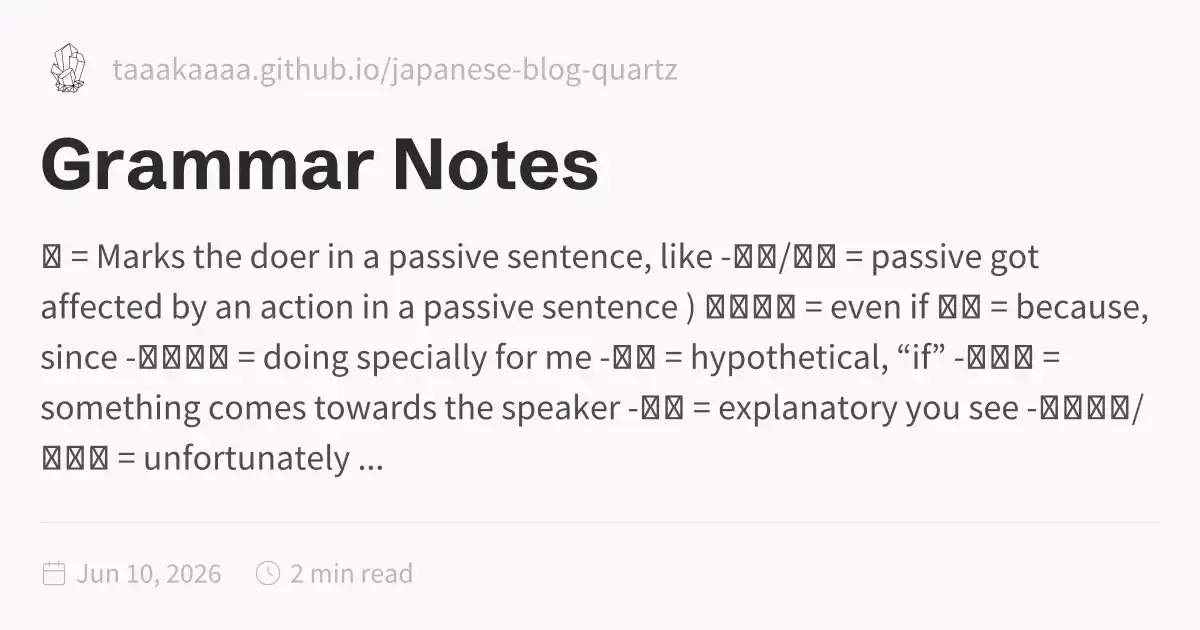
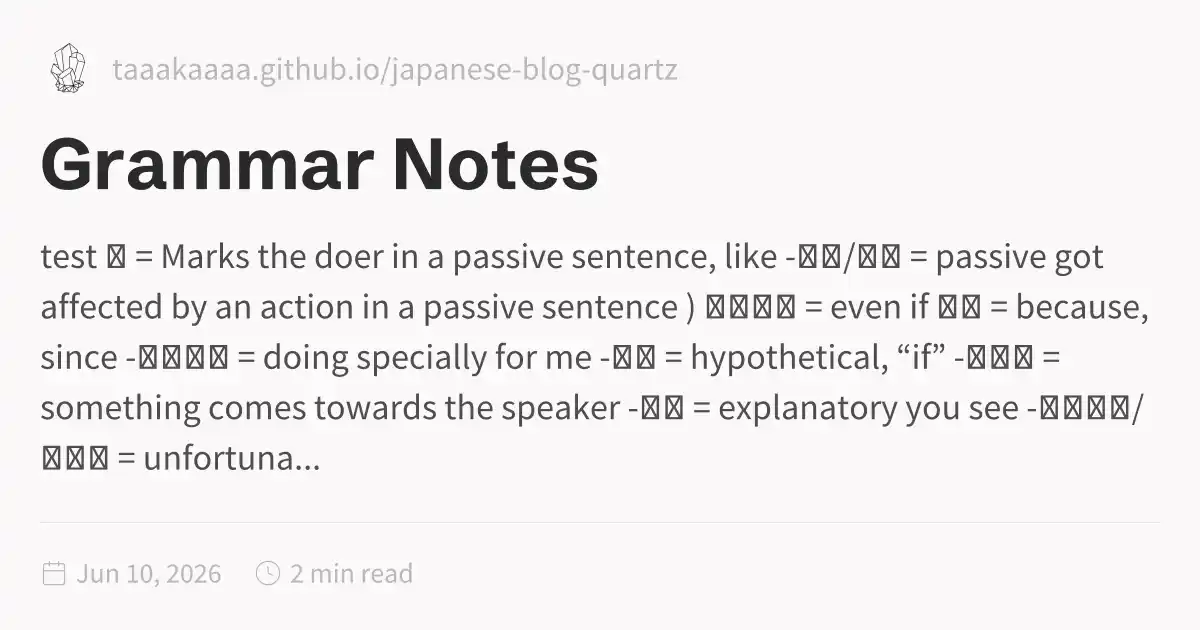
Deploy static Quartz site

Changed region(s): [[0.0308, 0.3619, 0.925, 0.4524], [0.2467, 0.6937, 0.3083, 0.754]]

diff --git a/grammar-notes.html b/grammar-notes.html
@@ -1,5 +1,6 @@
 <!DOCTYPE html>
-<html lang="en" dir="ltr"><head><title>Grammar Notes</title><meta charset="utf-8"/><link rel="preload" href="./index-47d9ba67.css" as="style"/><link rel="preload" href="./prescript-2bfc6315.js" as="script"/><link rel="preconnect" href="https://fonts.googleapis.com"/><link rel="preconnect" href="https://fonts.gstatic.com"/><link rel="stylesheet" href="https://fonts.googleapis.com/css2?family=Schibsted Grotesk:wght@400;700&amp;family=Source Sans Pro:ital,wght@0,400;0,600;1,400;1,600&amp;family=IBM Plex Mono:wght@400;600&amp;display=swap"/><link rel="preconnect" href="https://cdnjs.cloudflare.com" crossorigin="anonymous"/><meta name="viewport" content="width=device-width, initial-scale=1.0"/><meta name="og:site_name" content="Japanese Blog"/><meta property="og:title" content="Grammar Notes"/><meta property="og:type" content="website"/><meta name="twitter:card" content="summary_large_image"/><meta name="twitter:title" content="Grammar Notes"/><meta name="twitter:description" content="に = Marks the doer in a passive sentence, like -れた/れる = passive got affected by an action in a passive sentence ) としても = even if ので = because, since -てくれる = doing specially for me -たら = hypothetical, “if” -てくる = something comes towards the speaker -んだ = explanatory you see -てしまう/ちゃう = unfortunately ..."/><meta property="og:description" content="に = Marks the doer in a passive sentence, like -れた/れる = passive got affected by an action in a passive sentence ) としても = even if ので = because, since -てくれる = doing specially for me -たら = hypothetical, “if” -てくる = something comes towards the speaker -んだ = explanatory you see -てしまう/ちゃう = unfortunately ..."/><meta property="og:image:alt" content="に = Marks the doer in a passive sentence, like -れた/れる = passive got affected by an action in a passive sentence ) としても = even if ので = because, since -てくれる = doing specially for me -たら = hypothetical, “if” -てくる = something comes towards the speaker -んだ = explanatory you see -てしまう/ちゃう = unfortunately ..."/><meta property="twitter:domain" content="taaakaaaa.github.io/japanese-blog-quartz"/><meta property="og:url" content="https://taaakaaaa.github.io/japanese-blog-quartz/grammar-notes"/><meta property="twitter:url" content="https://taaakaaaa.github.io/japanese-blog-quartz/grammar-notes"/><link rel="icon" href="./static/icon.png"/><meta name="description" content="に = Marks the doer in a passive sentence, like -れた/れる = passive got affected by an action in a passive sentence ) としても = even if ので = because, since -てくれる = doing specially for me -たら = hypothetical, “if” -てくる = something comes towards the speaker -んだ = explanatory you see -てしまう/ちゃう = unfortunately ..."/><meta name="generator" content="Quartz"/><link href="./index-47d9ba67.css" rel="stylesheet" type="text/css" data-persist="true"/><link href="./component-735924e0.css" rel="stylesheet" type="text/css" data-persist="true"/><link href="./component-589c1cea.css" rel="stylesheet" type="text/css" data-persist="true"/><link href="./component-bbc3f7c0.css" rel="stylesheet" type="text/css" data-persist="true"/><link href="./component-2911f5d1.css" rel="stylesheet" type="text/css" data-persist="true"/><link href="./component-e427079e.css" rel="stylesheet" type="text/css" data-persist="true"/><link href="./component-53b25b2b.css" rel="stylesheet" type="text/css" data-persist="true"/><link href="./component-c93c6a44.css" rel="stylesheet" type="text/css" data-persist="true"/><link href="./component-8a06014f.css" rel="stylesheet" type="text/css" data-persist="true"/><link href="./component-77d6a441.css" rel="stylesheet" type="text/css" data-persist="true"/><link href="./component-6ee21cee.css" rel="stylesheet" type="text/css" data-persist="true"/><link href="./component-1ea6ad18.css" rel="stylesheet" type="text/css" data-persist="true"/><link href="./component-34bdfded.css" rel="stylesheet" type="text/css" data-persist="true"/><link href="./component-788c9ca3.css" rel="stylesheet" type="text/css" data-persist="true"/><link href="./component-642859cd.css" rel="stylesheet" type="text/css" data-persist="true"/><link href="./component-4abc06bd.css" rel="stylesheet" type="text/css" data-persist="true"/><link href="./component-274a3dfe.css" rel="stylesheet" type="text/css" data-persist="true"/><link href="./component-94cb6c84.css" rel="stylesheet" type="text/css" data-persist="true"/><link href="./component-58d5ff56.css" rel="stylesheet" type="text/css" data-persist="true"/><link href="./component-9f9b2774.css" rel="stylesheet" type="text/css" data-persist="true"/><link href="./component-7262b5a7.css" rel="stylesheet" type="text/css" data-persist="true"/><link href="./static/resource-style-54175ada.css" rel="stylesheet" type="text/css" data-persist="true"/><link href="./static/resource-style-a5c806d2.css" rel="stylesheet" type="text/css" data-persist="true"/><link href="./static/resource-style-6bd36952.css" rel="stylesheet" type="text/css" data-persist="true"/><link href="./static/resource-style-9857b007.css" rel="stylesheet" type="text/css" data-persist="true"/><link href="./static/resource-style-d3a1a224.css" rel="stylesheet" type="text/css" data-persist="true"/><link href="https://cdn.jsdelivr.net/npm/katex@0.16.11/dist/katex.min.css" rel="stylesheet" type="text/css" data-persist="true"/><script src="./prescript-2bfc6315.js" type="application/javascript" data-persist="true"></script><script type="application/javascript" data-persist="true">const fetchData = fetch("./static/contentIndex.json").then(data => data.json())</script><link rel="preconnect" href="https://fonts.googleapis.com"/><link rel="preconnect" href="https://fonts.gstatic.com" crossorigin="anonymous"/><link rel="stylesheet" href="https://fonts.googleapis.com/css2?family=Schibsted%20Grotesk%3Awght%40400%3B700&amp;family=Source%20Sans%20Pro%3Aital%2Cwght%400%2C400%3B0%2C600%3B1%2C400%3B1%2C600&amp;family=IBM%20Plex%20Mono%3Awght%40400%3B600&amp;display=swap"/><meta property="og:image:width" content="1200"/><meta property="og:image:height" content="630"/><meta property="og:image" content="https://taaakaaaa.github.io/japanese-blog-quartz/grammar-notes-og-image.webp"/><meta property="og:image:url" content="https://taaakaaaa.github.io/japanese-blog-quartz/grammar-notes-og-image.webp"/><meta name="twitter:image" content="https://taaakaaaa.github.io/japanese-blog-quartz/grammar-notes-og-image.webp"/><meta property="og:image:type" content="image/webp"/></head><body data-slug="grammar-notes" data-basepath="/japanese-blog-quartz"><div id="quartz-root" class="page" data-frame="default"><div id="quartz-body"><div class="left sidebar"><h2 class="page-title"><a href=".">Japanese Blog</a></h2><div class="mobile-only"><div class="spacer"></div></div><div class="flex-component" style="flex-direction: row; flex-wrap: nowrap; gap: 0.5rem;"><div style="flex-grow: 1; flex-shrink: 1; flex-basis: auto; order: 0; align-self: center; justify-self: center;"><div class="search"><button class="search-button" aria-label="Search" aria-expanded="false"><svg role="img" xmlns="http://www.w3.org/2000/svg" viewBox="0 0 19.9 19.7"><title>Search</title><g class="search-path" fill="none"><path stroke-linecap="square" d="M18.5 18.3l-5.4-5.4"></path><circle cx="8" cy="8" r="7"></circle></g></svg><p>Search</p></button><div class="search-container"><div class="search-space"><input autocomplete="off" class="search-bar" name="search" type="text" aria-label="Search for something..." placeholder="Search for something..."/><div class="search-layout" data-preview="true" data-field-priority="[&quot;title&quot;,&quot;content&quot;,&quot;tags&quot;]"></div></div></div></div></div><div style="flex-grow: 0; flex-shrink: 1; flex-basis: auto; order: 0; align-self: center; justify-self: center;"><button class="darkmode" aria-label="Dark mode"><svg xmlns="http://www.w3.org/2000/svg" xmlns:xlink="http://www.w3.org/1999/xlink" version="1.1" class="dayIcon" x="0px" y="0px" viewBox="0 0 35 35" style="enable-background:new 0 0 35 35" xml:space="preserve" aria-label="Dark mode"><title>Dark mode</title><path d="M6,17.5C6,16.672,5.328,16,4.5,16h-3C0.672,16,0,16.672,0,17.5    S0.672,19,1.5,19h3C5.328,19,6,18.328,6,17.5z M7.5,26c-0.414,0-0.789,0.168-1.061,0.439l-2,2C4.168,28.711,4,29.086,4,29.5    C4,30.328,4.671,31,5.5,31c0.414,0,0.789-0.168,1.06-0.44l2-2C8.832,28.289,9,27.914,9,27.5C9,26.672,8.329,26,7.5,26z M17.5,6    C18.329,6,19,5.328,19,4.5v-3C19,0.672,18.329,0,17.5,0S16,0.672,16,1.5v3C16,5.328,16.671,6,17.5,6z M27.5,9    c0.414,0,0.789-0.168,1.06-0.439l2-2C30.832,6.289,31,5.914,31,5.5C31,4.672,30.329,4,29.5,4c-0.414,0-0.789,0.168-1.061,0.44    l-2,2C26.168,6.711,26,7.086,26,7.5C26,8.328,26.671,9,27.5,9z M6.439,8.561C6.711,8.832,7.086,9,7.5,9C8.328,9,9,8.328,9,7.5    c0-0.414-0.168-0.789-0.439-1.061l-2-2C6.289,4.168,5.914,4,5.5,4C4.672,4,4,4.672,4,5.5c0,0.414,0.168,0.789,0.439,1.06    L6.439,8.561z M33.5,16h-3c-0.828,0-1.5,0.672-1.5,1.5s0.672,1.5,1.5,1.5h3c0.828,0,1.5-0.672,1.5-1.5S34.328,16,33.5,16z     M28.561,26.439C28.289,26.168,27.914,26,27.5,26c-0.828,0-1.5,0.672-1.5,1.5c0,0.414,0.168,0.789,0.439,1.06l2,2    C28.711,30.832,29.086,31,29.5,31c0.828,0,1.5-0.672,1.5-1.5c0-0.414-0.168-0.789-0.439-1.061L28.561,26.439z M17.5,29    c-0.829,0-1.5,0.672-1.5,1.5v3c0,0.828,0.671,1.5,1.5,1.5s1.5-0.672,1.5-1.5v-3C19,29.672,18.329,29,17.5,29z M17.5,7    C11.71,7,7,11.71,7,17.5S11.71,28,17.5,28S28,23.29,28,17.5S23.29,7,17.5,7z M17.5,25c-4.136,0-7.5-3.364-7.5-7.5    c0-4.136,3.364-7.5,7.5-7.5c4.136,0,7.5,3.364,7.5,7.5C25,21.636,21.636,25,17.5,25z"></path></svg><svg xmlns="http://www.w3.org/2000/svg" xmlns:xlink="http://www.w3.org/1999/xlink" version="1.1" class="nightIcon" x="0px" y="0px" viewBox="0 0 100 100" style="enable-background:new 0 0 100 100" xml:space="preserve" aria-label="Light mode"><title>Light mode</title><path d="M96.76,66.458c-0.853-0.852-2.15-1.064-3.23-0.534c-6.063,2.991-12.858,4.571-19.655,4.571  C62.022,70.495,50.88,65.88,42.5,57.5C29.043,44.043,25.658,23.536,34.076,6.47c0.532-1.08,0.318-2.379-0.534-3.23  c-0.851-0.852-2.15-1.064-3.23-0.534c-4.918,2.427-9.375,5.619-13.246,9.491c-9.447,9.447-14.65,22.008-14.65,35.369  c0,13.36,5.203,25.921,14.65,35.368s22.008,14.65,35.368,14.65c13.361,0,25.921-5.203,35.369-14.65  c3.872-3.871,7.064-8.328,9.491-13.246C97.826,68.608,97.611,67.309,96.76,66.458z"></path></svg></button></div><div style="flex-grow: 0; flex-shrink: 1; flex-basis: auto; order: 0; align-self: center; justify-self: center;"><button class="readermode" aria-label="Reader mode"><svg xmlns="http://www.w3.org/2000/svg" xmlns:xlink="http://www.w3.org/1999/xlink" version="1.1" class="readerIcon" fill="currentColor" stroke="currentColor" stroke-width="0.2" stroke-linecap="round" stroke-linejoin="round" width="64px" height="64px" viewBox="0 0 24 24" aria-label="Reader mode"><title>Reader mode</title><g transform="translate(-1.8, -1.8) scale(1.15, 1.2)"><path d="M8.9891247,2.5 C10.1384702,2.5 11.2209868,2.96705384 12.0049645,3.76669482 C12.7883914,2.96705384 13.8709081,2.5 15.0202536,2.5 L18.7549359,2.5 C19.1691495,2.5 19.5049359,2.83578644 19.5049359,3.25 L19.5046891,4.004 L21.2546891,4.00457396 C21.6343849,4.00457396 21.9481801,4.28672784 21.9978425,4.6528034 L22.0046891,4.75457396 L22.0046891,20.25 C22.0046891,20.6296958 21.7225353,20.943491 21.3564597,20.9931534 L21.2546891,21 L2.75468914,21 C2.37499337,21 2.06119817,20.7178461 2.01153575,20.3517706 L2.00468914,20.25 L2.00468914,4.75457396 C2.00468914,4.37487819 2.28684302,4.061083 2.65291858,4.01142057 L2.75468914,4.00457396 L4.50368914,4.004 L4.50444233,3.25 C4.50444233,2.87030423 4.78659621,2.55650904 5.15267177,2.50684662 L5.25444233,2.5 L8.9891247,2.5 Z M4.50368914,5.504 L3.50468914,5.504 L3.50468914,19.5 L10.9478955,19.4998273 C10.4513189,18.9207296 9.73864328,18.5588115 8.96709342,18.5065584 L8.77307039,18.5 L5.25444233,18.5 C4.87474657,18.5 4.56095137,18.2178461 4.51128895,17.8517706 L4.50444233,17.75 L4.50368914,5.504 Z M19.5049359,17.75 C19.5049359,18.1642136 19.1691495,18.5 18.7549359,18.5 L15.2363079,18.5 C14.3910149,18.5 13.5994408,18.8724714 13.0614828,19.4998273 L20.5046891,19.5 L20.5046891,5.504 L19.5046891,5.504 L19.5049359,17.75 Z M18.0059359,3.999 L15.0202536,4 L14.8259077,4.00692283 C13.9889509,4.06666544 13.2254227,4.50975805 12.7549359,5.212 L12.7549359,17.777 L12.7782651,17.7601316 C13.4923805,17.2719483 14.3447024,17 15.2363079,17 L18.0059359,16.999 L18.0056891,4.798 L18.0033792,4.75457396 L18.0056891,4.71 L18.0059359,3.999 Z M8.9891247,4 L6.00368914,3.999 L6.00599909,4.75457396 L6.00599909,4.75457396 L6.00368914,4.783 L6.00368914,16.999 L8.77307039,17 C9.57551536,17 10.3461406,17.2202781 11.0128313,17.6202194 L11.2536891,17.776 L11.2536891,5.211 C10.8200889,4.56369974 10.1361548,4.13636104 9.37521067,4.02745763 L9.18347055,4.00692283 L8.9891247,4 Z"></path></g></svg></button></div></div><div class="explorer nav-files-container" data-behavior="link" data-collapsed="collapsed" data-savestate="true" data-data-fns="{&quot;order&quot;:[&quot;filter&quot;,&quot;map&quot;,&quot;sort&quot;],&quot;sortFn&quot;:&quot;(a2, b2) => {\r\n    if (!a2.isFolder &amp;&amp; !b2.isFolder || a2.isFolder &amp;&amp; b2.isFolder) {\r\n      return (a2.displayName || \&quot;\&quot;).localeCompare(b2.displayName || \&quot;\&quot;, void 0, {\r\n        numeric: true,\r\n        sensitivity: \&quot;base\&quot;\r\n      });\r\n    }\r\n    if (!a2.isFolder &amp;&amp; b2.isFolder) {\r\n      return 1;\r\n    }\r\n    return -1;\r\n  }&quot;,&quot;filterFn&quot;:&quot;(node) => node.slugSegment !== \&quot;tags\&quot;&quot;,&quot;mapFn&quot;:&quot;(node) => {\r\n    return node;\r\n  }&quot;}"><button type="button" class="explorer-toggle mobile-explorer hide-until-loaded" data-mobile="true" aria-controls="explorer-0" aria-label="Explorer"><svg xmlns="http://www.w3.org/2000/svg" width="24" height="24" viewBox="0 0 24 24" stroke-width="2" stroke-linecap="round" stroke-linejoin="round" class="lucide-menu"><line x1="4" x2="20" y1="12" y2="12"></line><line x1="4" x2="20" y1="6" y2="6"></line><line x1="4" x2="20" y1="18" y2="18"></line></svg></button><button type="button" class="title-button explorer-toggle desktop-explorer" data-mobile="false" aria-expanded="true"><h2>Explorer</h2><svg xmlns="http://www.w3.org/2000/svg" width="14" height="14" viewBox="5 8 14 8" fill="none" stroke="currentColor" stroke-width="2" stroke-linecap="round" stroke-linejoin="round" class="fold"><polyline points="6 9 12 15 18 9"></polyline></svg></button><div id="explorer-0" class="explorer-content" aria-expanded="false" role="group"><ul class="explorer-ul overflow" id="list-0"><li class="overflow-end"></li></ul></div><template id="template-file"><li><a href="#" class="nav-file-title tree-item-self"></a></li></template><template id="template-folder"><li><div class="folder-container nav-folder-title tree-item-self"><svg xmlns="http://www.w3.org/2000/svg" width="12" height="12" viewBox="5 8 14 8" fill="none" stroke="currentColor" stroke-width="2" stroke-linecap="round" stroke-linejoin="round" class="folder-icon nav-folder-collapse-indicator collapse-icon"><polyline points="6 9 12 15 18 9"></polyline></svg><div><button class="folder-button"><span class="folder-title"></span></button></div></div><div class="folder-outer"><ul class="content tree-item-children"></ul></div></li></template></div></div><div class="center"><div class="page-header"><div class="popover-hint"><nav class="breadcrumb-container" aria-label="breadcrumbs"><div class="breadcrumb-element"><a href="./">Home</a><p> ❯ </p></div><div class="breadcrumb-element"><a href>Grammar Notes</a></div></nav><h1 class="article-title">Grammar Notes</h1><p show-comma="true" class="content-meta"><time datetime="2026-06-10T22:49:53.000Z">Jun 10, 2026</time><span>2 min read</span></p></div></div><article class="popover-hint"><div class="markdown-preview-view markdown-rendered"><p>に = Marks the doer in a passive sentence, like</p>
+<html lang="en" dir="ltr"><head><title>Grammar Notes</title><meta charset="utf-8"/><link rel="preload" href="./index-47d9ba67.css" as="style"/><link rel="preload" href="./prescript-2bfc6315.js" as="script"/><link rel="preconnect" href="https://fonts.googleapis.com"/><link rel="preconnect" href="https://fonts.gstatic.com"/><link rel="stylesheet" href="https://fonts.googleapis.com/css2?family=Schibsted Grotesk:wght@400;700&amp;family=Source Sans Pro:ital,wght@0,400;0,600;1,400;1,600&amp;family=IBM Plex Mono:wght@400;600&amp;display=swap"/><link rel="preconnect" href="https://cdnjs.cloudflare.com" crossorigin="anonymous"/><meta name="viewport" content="width=device-width, initial-scale=1.0"/><meta name="og:site_name" content="Japanese Blog"/><meta property="og:title" content="Grammar Notes"/><meta property="og:type" content="website"/><meta name="twitter:card" content="summary_large_image"/><meta name="twitter:title" content="Grammar Notes"/><meta name="twitter:description" content="test に = Marks the doer in a passive sentence, like -れた/れる = passive got affected by an action in a passive sentence ) としても = even if ので = because, since -てくれる = doing specially for me -たら = hypothetical, “if” -てくる = something comes towards the speaker -んだ = explanatory you see -てしまう/ちゃう = unfortuna..."/><meta property="og:description" content="test に = Marks the doer in a passive sentence, like -れた/れる = passive got affected by an action in a passive sentence ) としても = even if ので = because, since -てくれる = doing specially for me -たら = hypothetical, “if” -てくる = something comes towards the speaker -んだ = explanatory you see -てしまう/ちゃう = unfortuna..."/><meta property="og:image:alt" content="test に = Marks the doer in a passive sentence, like -れた/れる = passive got affected by an action in a passive sentence ) としても = even if ので = because, since -てくれる = doing specially for me -たら = hypothetical, “if” -てくる = something comes towards the speaker -んだ = explanatory you see -てしまう/ちゃう = unfortuna..."/><meta property="twitter:domain" content="taaakaaaa.github.io/japanese-blog-quartz"/><meta property="og:url" content="https://taaakaaaa.github.io/japanese-blog-quartz/grammar-notes"/><meta property="twitter:url" content="https://taaakaaaa.github.io/japanese-blog-quartz/grammar-notes"/><link rel="icon" href="./static/icon.png"/><meta name="description" content="test に = Marks the doer in a passive sentence, like -れた/れる = passive got affected by an action in a passive sentence ) としても = even if ので = because, since -てくれる = doing specially for me -たら = hypothetical, “if” -てくる = something comes towards the speaker -んだ = explanatory you see -てしまう/ちゃう = unfortuna..."/><meta name="generator" content="Quartz"/><link href="./index-47d9ba67.css" rel="stylesheet" type="text/css" data-persist="true"/><link href="./component-735924e0.css" rel="stylesheet" type="text/css" data-persist="true"/><link href="./component-589c1cea.css" rel="stylesheet" type="text/css" data-persist="true"/><link href="./component-bbc3f7c0.css" rel="stylesheet" type="text/css" data-persist="true"/><link href="./component-2911f5d1.css" rel="stylesheet" type="text/css" data-persist="true"/><link href="./component-e427079e.css" rel="stylesheet" type="text/css" data-persist="true"/><link href="./component-53b25b2b.css" rel="stylesheet" type="text/css" data-persist="true"/><link href="./component-c93c6a44.css" rel="stylesheet" type="text/css" data-persist="true"/><link href="./component-8a06014f.css" rel="stylesheet" type="text/css" data-persist="true"/><link href="./component-77d6a441.css" rel="stylesheet" type="text/css" data-persist="true"/><link href="./component-6ee21cee.css" rel="stylesheet" type="text/css" data-persist="true"/><link href="./component-1ea6ad18.css" rel="stylesheet" type="text/css" data-persist="true"/><link href="./component-34bdfded.css" rel="stylesheet" type="text/css" data-persist="true"/><link href="./component-788c9ca3.css" rel="stylesheet" type="text/css" data-persist="true"/><link href="./component-642859cd.css" rel="stylesheet" type="text/css" data-persist="true"/><link href="./component-4abc06bd.css" rel="stylesheet" type="text/css" data-persist="true"/><link href="./component-274a3dfe.css" rel="stylesheet" type="text/css" data-persist="true"/><link href="./component-94cb6c84.css" rel="stylesheet" type="text/css" data-persist="true"/><link href="./component-58d5ff56.css" rel="stylesheet" type="text/css" data-persist="true"/><link href="./component-9f9b2774.css" rel="stylesheet" type="text/css" data-persist="true"/><link href="./component-7262b5a7.css" rel="stylesheet" type="text/css" data-persist="true"/><link href="./static/resource-style-54175ada.css" rel="stylesheet" type="text/css" data-persist="true"/><link href="./static/resource-style-a5c806d2.css" rel="stylesheet" type="text/css" data-persist="true"/><link href="./static/resource-style-6bd36952.css" rel="stylesheet" type="text/css" data-persist="true"/><link href="./static/resource-style-9857b007.css" rel="stylesheet" type="text/css" data-persist="true"/><link href="./static/resource-style-d3a1a224.css" rel="stylesheet" type="text/css" data-persist="true"/><link href="https://cdn.jsdelivr.net/npm/katex@0.16.11/dist/katex.min.css" rel="stylesheet" type="text/css" data-persist="true"/><script src="./prescript-2bfc6315.js" type="application/javascript" data-persist="true"></script><script type="application/javascript" data-persist="true">const fetchData = fetch("./static/contentIndex.json").then(data => data.json())</script><link rel="preconnect" href="https://fonts.googleapis.com"/><link rel="preconnect" href="https://fonts.gstatic.com" crossorigin="anonymous"/><link rel="stylesheet" href="https://fonts.googleapis.com/css2?family=Schibsted%20Grotesk%3Awght%40400%3B700&amp;family=Source%20Sans%20Pro%3Aital%2Cwght%400%2C400%3B0%2C600%3B1%2C400%3B1%2C600&amp;family=IBM%20Plex%20Mono%3Awght%40400%3B600&amp;display=swap"/><meta property="og:image:width" content="1200"/><meta property="og:image:height" content="630"/><meta property="og:image" content="https://taaakaaaa.github.io/japanese-blog-quartz/grammar-notes-og-image.webp"/><meta property="og:image:url" content="https://taaakaaaa.github.io/japanese-blog-quartz/grammar-notes-og-image.webp"/><meta name="twitter:image" content="https://taaakaaaa.github.io/japanese-blog-quartz/grammar-notes-og-image.webp"/><meta property="og:image:type" content="image/webp"/></head><body data-slug="grammar-notes" data-basepath="/japanese-blog-quartz"><div id="quartz-root" class="page" data-frame="default"><div id="quartz-body"><div class="left sidebar"><h2 class="page-title"><a href=".">Japanese Blog</a></h2><div class="mobile-only"><div class="spacer"></div></div><div class="flex-component" style="flex-direction: row; flex-wrap: nowrap; gap: 0.5rem;"><div style="flex-grow: 1; flex-shrink: 1; flex-basis: auto; order: 0; align-self: center; justify-self: center;"><div class="search"><button class="search-button" aria-label="Search" aria-expanded="false"><svg role="img" xmlns="http://www.w3.org/2000/svg" viewBox="0 0 19.9 19.7"><title>Search</title><g class="search-path" fill="none"><path stroke-linecap="square" d="M18.5 18.3l-5.4-5.4"></path><circle cx="8" cy="8" r="7"></circle></g></svg><p>Search</p></button><div class="search-container"><div class="search-space"><input autocomplete="off" class="search-bar" name="search" type="text" aria-label="Search for something..." placeholder="Search for something..."/><div class="search-layout" data-preview="true" data-field-priority="[&quot;title&quot;,&quot;content&quot;,&quot;tags&quot;]"></div></div></div></div></div><div style="flex-grow: 0; flex-shrink: 1; flex-basis: auto; order: 0; align-self: center; justify-self: center;"><button class="darkmode" aria-label="Dark mode"><svg xmlns="http://www.w3.org/2000/svg" xmlns:xlink="http://www.w3.org/1999/xlink" version="1.1" class="dayIcon" x="0px" y="0px" viewBox="0 0 35 35" style="enable-background:new 0 0 35 35" xml:space="preserve" aria-label="Dark mode"><title>Dark mode</title><path d="M6,17.5C6,16.672,5.328,16,4.5,16h-3C0.672,16,0,16.672,0,17.5    S0.672,19,1.5,19h3C5.328,19,6,18.328,6,17.5z M7.5,26c-0.414,0-0.789,0.168-1.061,0.439l-2,2C4.168,28.711,4,29.086,4,29.5    C4,30.328,4.671,31,5.5,31c0.414,0,0.789-0.168,1.06-0.44l2-2C8.832,28.289,9,27.914,9,27.5C9,26.672,8.329,26,7.5,26z M17.5,6    C18.329,6,19,5.328,19,4.5v-3C19,0.672,18.329,0,17.5,0S16,0.672,16,1.5v3C16,5.328,16.671,6,17.5,6z M27.5,9    c0.414,0,0.789-0.168,1.06-0.439l2-2C30.832,6.289,31,5.914,31,5.5C31,4.672,30.329,4,29.5,4c-0.414,0-0.789,0.168-1.061,0.44    l-2,2C26.168,6.711,26,7.086,26,7.5C26,8.328,26.671,9,27.5,9z M6.439,8.561C6.711,8.832,7.086,9,7.5,9C8.328,9,9,8.328,9,7.5    c0-0.414-0.168-0.789-0.439-1.061l-2-2C6.289,4.168,5.914,4,5.5,4C4.672,4,4,4.672,4,5.5c0,0.414,0.168,0.789,0.439,1.06    L6.439,8.561z M33.5,16h-3c-0.828,0-1.5,0.672-1.5,1.5s0.672,1.5,1.5,1.5h3c0.828,0,1.5-0.672,1.5-1.5S34.328,16,33.5,16z     M28.561,26.439C28.289,26.168,27.914,26,27.5,26c-0.828,0-1.5,0.672-1.5,1.5c0,0.414,0.168,0.789,0.439,1.06l2,2    C28.711,30.832,29.086,31,29.5,31c0.828,0,1.5-0.672,1.5-1.5c0-0.414-0.168-0.789-0.439-1.061L28.561,26.439z M17.5,29    c-0.829,0-1.5,0.672-1.5,1.5v3c0,0.828,0.671,1.5,1.5,1.5s1.5-0.672,1.5-1.5v-3C19,29.672,18.329,29,17.5,29z M17.5,7    C11.71,7,7,11.71,7,17.5S11.71,28,17.5,28S28,23.29,28,17.5S23.29,7,17.5,7z M17.5,25c-4.136,0-7.5-3.364-7.5-7.5    c0-4.136,3.364-7.5,7.5-7.5c4.136,0,7.5,3.364,7.5,7.5C25,21.636,21.636,25,17.5,25z"></path></svg><svg xmlns="http://www.w3.org/2000/svg" xmlns:xlink="http://www.w3.org/1999/xlink" version="1.1" class="nightIcon" x="0px" y="0px" viewBox="0 0 100 100" style="enable-background:new 0 0 100 100" xml:space="preserve" aria-label="Light mode"><title>Light mode</title><path d="M96.76,66.458c-0.853-0.852-2.15-1.064-3.23-0.534c-6.063,2.991-12.858,4.571-19.655,4.571  C62.022,70.495,50.88,65.88,42.5,57.5C29.043,44.043,25.658,23.536,34.076,6.47c0.532-1.08,0.318-2.379-0.534-3.23  c-0.851-0.852-2.15-1.064-3.23-0.534c-4.918,2.427-9.375,5.619-13.246,9.491c-9.447,9.447-14.65,22.008-14.65,35.369  c0,13.36,5.203,25.921,14.65,35.368s22.008,14.65,35.368,14.65c13.361,0,25.921-5.203,35.369-14.65  c3.872-3.871,7.064-8.328,9.491-13.246C97.826,68.608,97.611,67.309,96.76,66.458z"></path></svg></button></div><div style="flex-grow: 0; flex-shrink: 1; flex-basis: auto; order: 0; align-self: center; justify-self: center;"><button class="readermode" aria-label="Reader mode"><svg xmlns="http://www.w3.org/2000/svg" xmlns:xlink="http://www.w3.org/1999/xlink" version="1.1" class="readerIcon" fill="currentColor" stroke="currentColor" stroke-width="0.2" stroke-linecap="round" stroke-linejoin="round" width="64px" height="64px" viewBox="0 0 24 24" aria-label="Reader mode"><title>Reader mode</title><g transform="translate(-1.8, -1.8) scale(1.15, 1.2)"><path d="M8.9891247,2.5 C10.1384702,2.5 11.2209868,2.96705384 12.0049645,3.76669482 C12.7883914,2.96705384 13.8709081,2.5 15.0202536,2.5 L18.7549359,2.5 C19.1691495,2.5 19.5049359,2.83578644 19.5049359,3.25 L19.5046891,4.004 L21.2546891,4.00457396 C21.6343849,4.00457396 21.9481801,4.28672784 21.9978425,4.6528034 L22.0046891,4.75457396 L22.0046891,20.25 C22.0046891,20.6296958 21.7225353,20.943491 21.3564597,20.9931534 L21.2546891,21 L2.75468914,21 C2.37499337,21 2.06119817,20.7178461 2.01153575,20.3517706 L2.00468914,20.25 L2.00468914,4.75457396 C2.00468914,4.37487819 2.28684302,4.061083 2.65291858,4.01142057 L2.75468914,4.00457396 L4.50368914,4.004 L4.50444233,3.25 C4.50444233,2.87030423 4.78659621,2.55650904 5.15267177,2.50684662 L5.25444233,2.5 L8.9891247,2.5 Z M4.50368914,5.504 L3.50468914,5.504 L3.50468914,19.5 L10.9478955,19.4998273 C10.4513189,18.9207296 9.73864328,18.5588115 8.96709342,18.5065584 L8.77307039,18.5 L5.25444233,18.5 C4.87474657,18.5 4.56095137,18.2178461 4.51128895,17.8517706 L4.50444233,17.75 L4.50368914,5.504 Z M19.5049359,17.75 C19.5049359,18.1642136 19.1691495,18.5 18.7549359,18.5 L15.2363079,18.5 C14.3910149,18.5 13.5994408,18.8724714 13.0614828,19.4998273 L20.5046891,19.5 L20.5046891,5.504 L19.5046891,5.504 L19.5049359,17.75 Z M18.0059359,3.999 L15.0202536,4 L14.8259077,4.00692283 C13.9889509,4.06666544 13.2254227,4.50975805 12.7549359,5.212 L12.7549359,17.777 L12.7782651,17.7601316 C13.4923805,17.2719483 14.3447024,17 15.2363079,17 L18.0059359,16.999 L18.0056891,4.798 L18.0033792,4.75457396 L18.0056891,4.71 L18.0059359,3.999 Z M8.9891247,4 L6.00368914,3.999 L6.00599909,4.75457396 L6.00599909,4.75457396 L6.00368914,4.783 L6.00368914,16.999 L8.77307039,17 C9.57551536,17 10.3461406,17.2202781 11.0128313,17.6202194 L11.2536891,17.776 L11.2536891,5.211 C10.8200889,4.56369974 10.1361548,4.13636104 9.37521067,4.02745763 L9.18347055,4.00692283 L8.9891247,4 Z"></path></g></svg></button></div></div><div class="explorer nav-files-container" data-behavior="link" data-collapsed="collapsed" data-savestate="true" data-data-fns="{&quot;order&quot;:[&quot;filter&quot;,&quot;map&quot;,&quot;sort&quot;],&quot;sortFn&quot;:&quot;(a2, b2) => {\r\n    if (!a2.isFolder &amp;&amp; !b2.isFolder || a2.isFolder &amp;&amp; b2.isFolder) {\r\n      return (a2.displayName || \&quot;\&quot;).localeCompare(b2.displayName || \&quot;\&quot;, void 0, {\r\n        numeric: true,\r\n        sensitivity: \&quot;base\&quot;\r\n      });\r\n    }\r\n    if (!a2.isFolder &amp;&amp; b2.isFolder) {\r\n      return 1;\r\n    }\r\n    return -1;\r\n  }&quot;,&quot;filterFn&quot;:&quot;(node) => node.slugSegment !== \&quot;tags\&quot;&quot;,&quot;mapFn&quot;:&quot;(node) => {\r\n    return node;\r\n  }&quot;}"><button type="button" class="explorer-toggle mobile-explorer hide-until-loaded" data-mobile="true" aria-controls="explorer-0" aria-label="Explorer"><svg xmlns="http://www.w3.org/2000/svg" width="24" height="24" viewBox="0 0 24 24" stroke-width="2" stroke-linecap="round" stroke-linejoin="round" class="lucide-menu"><line x1="4" x2="20" y1="12" y2="12"></line><line x1="4" x2="20" y1="6" y2="6"></line><line x1="4" x2="20" y1="18" y2="18"></line></svg></button><button type="button" class="title-button explorer-toggle desktop-explorer" data-mobile="false" aria-expanded="true"><h2>Explorer</h2><svg xmlns="http://www.w3.org/2000/svg" width="14" height="14" viewBox="5 8 14 8" fill="none" stroke="currentColor" stroke-width="2" stroke-linecap="round" stroke-linejoin="round" class="fold"><polyline points="6 9 12 15 18 9"></polyline></svg></button><div id="explorer-0" class="explorer-content" aria-expanded="false" role="group"><ul class="explorer-ul overflow" id="list-0"><li class="overflow-end"></li></ul></div><template id="template-file"><li><a href="#" class="nav-file-title tree-item-self"></a></li></template><template id="template-folder"><li><div class="folder-container nav-folder-title tree-item-self"><svg xmlns="http://www.w3.org/2000/svg" width="12" height="12" viewBox="5 8 14 8" fill="none" stroke="currentColor" stroke-width="2" stroke-linecap="round" stroke-linejoin="round" class="folder-icon nav-folder-collapse-indicator collapse-icon"><polyline points="6 9 12 15 18 9"></polyline></svg><div><button class="folder-button"><span class="folder-title"></span></button></div></div><div class="folder-outer"><ul class="content tree-item-children"></ul></div></li></template></div></div><div class="center"><div class="page-header"><div class="popover-hint"><nav class="breadcrumb-container" aria-label="breadcrumbs"><div class="breadcrumb-element"><a href="./">Home</a><p> ❯ </p></div><div class="breadcrumb-element"><a href>Grammar Notes</a></div></nav><h1 class="article-title">Grammar Notes</h1><p show-comma="true" class="content-meta"><time datetime="2026-06-10T22:49:53.000Z">Jun 10, 2026</time><span>2 min read</span></p></div></div><article class="popover-hint"><div class="markdown-preview-view markdown-rendered"><p>test</p>
+<p>に = Marks the doer in a passive sentence, like</p>
 <p>-れた/れる = passive<br/>
 got affected by an action in a passive sentence  )</p>
 <p>としても = even if</p>
